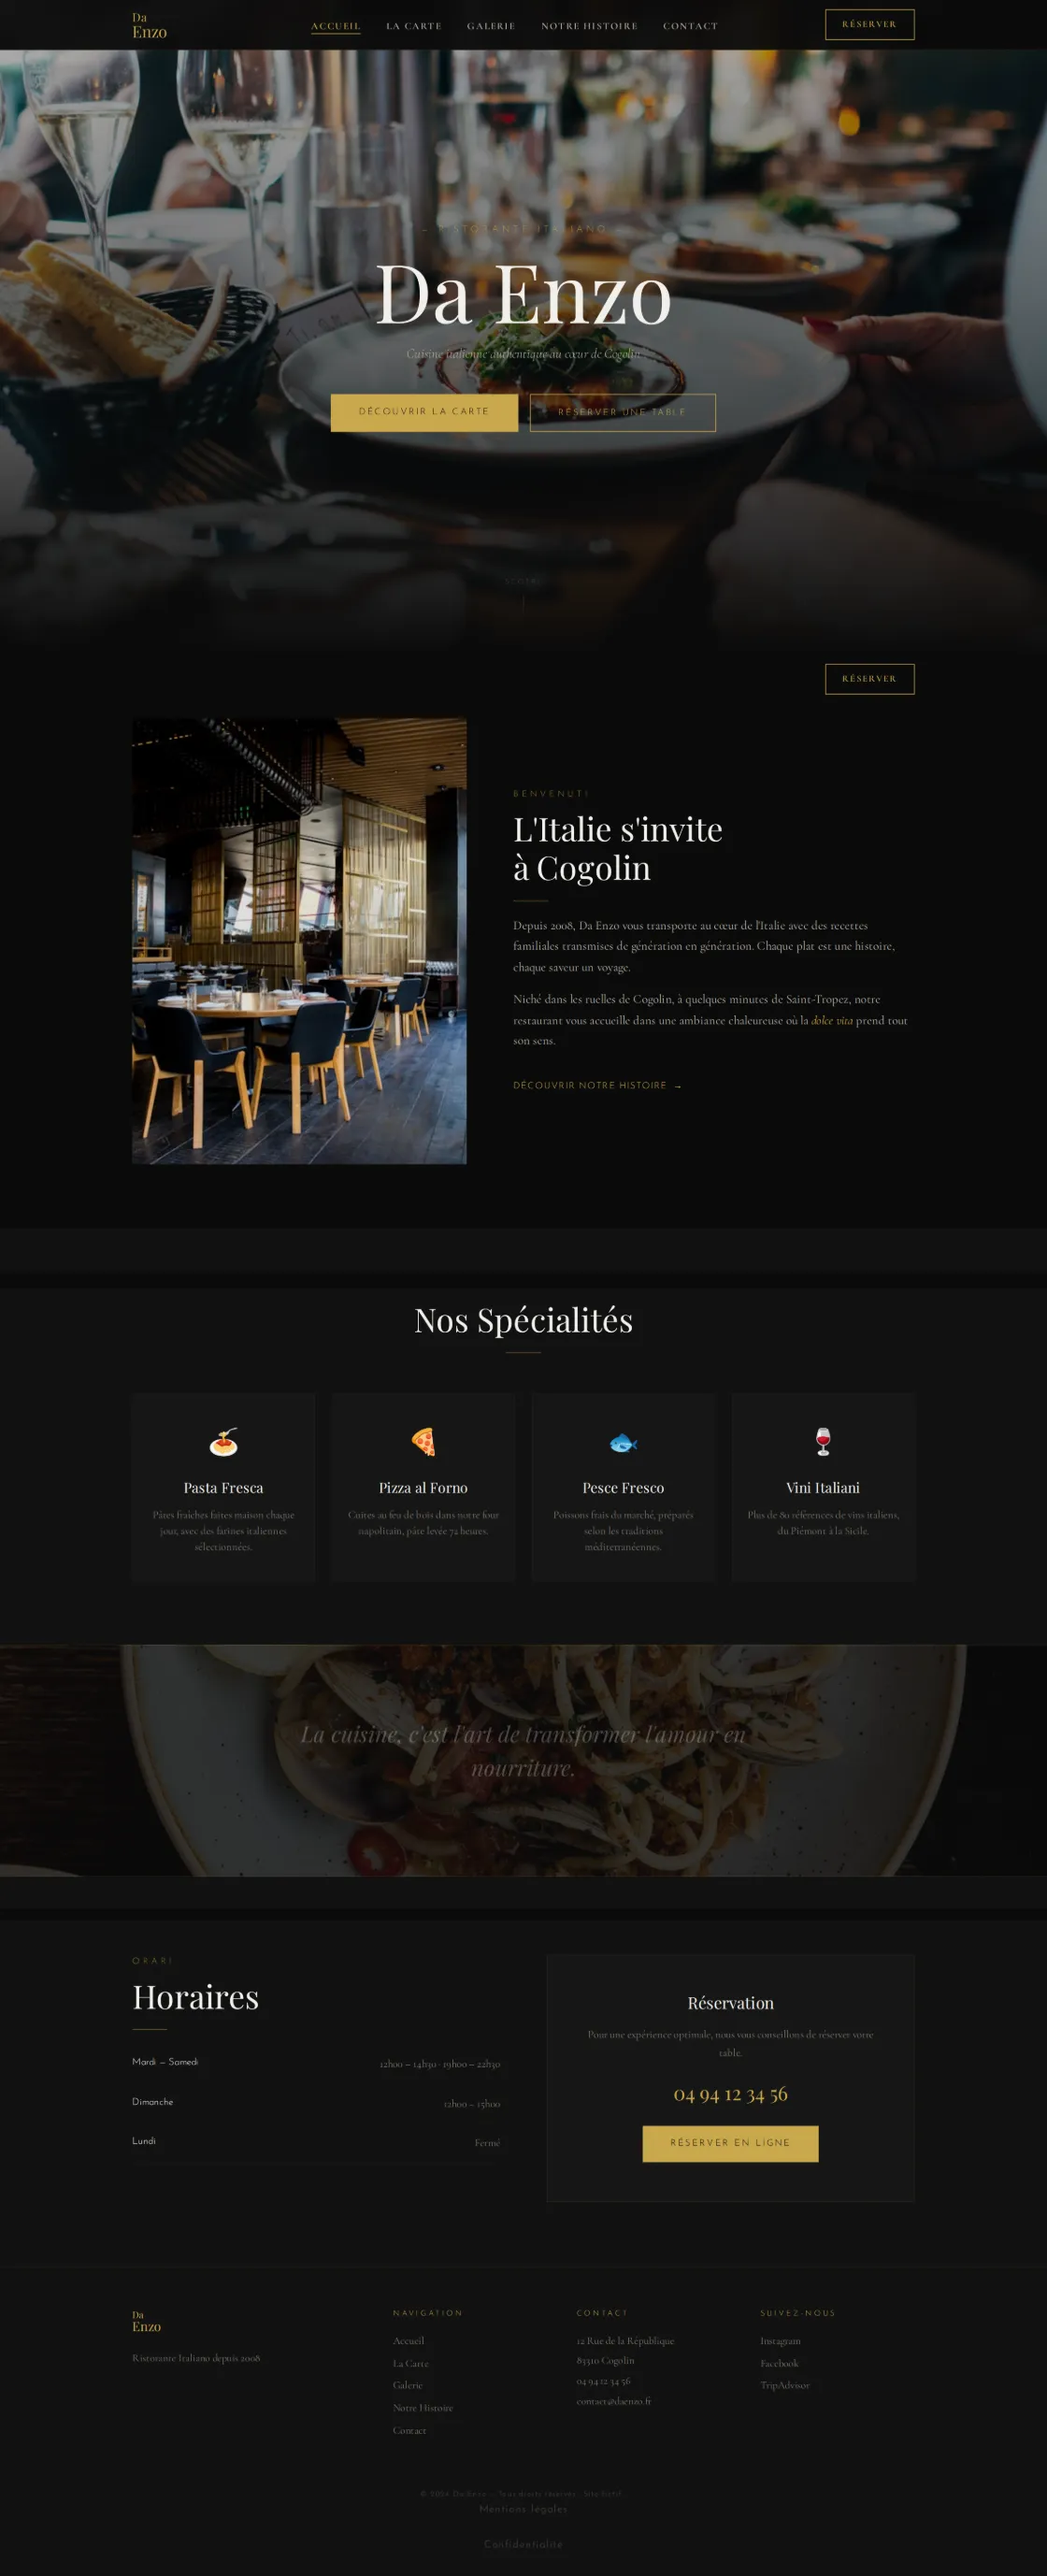
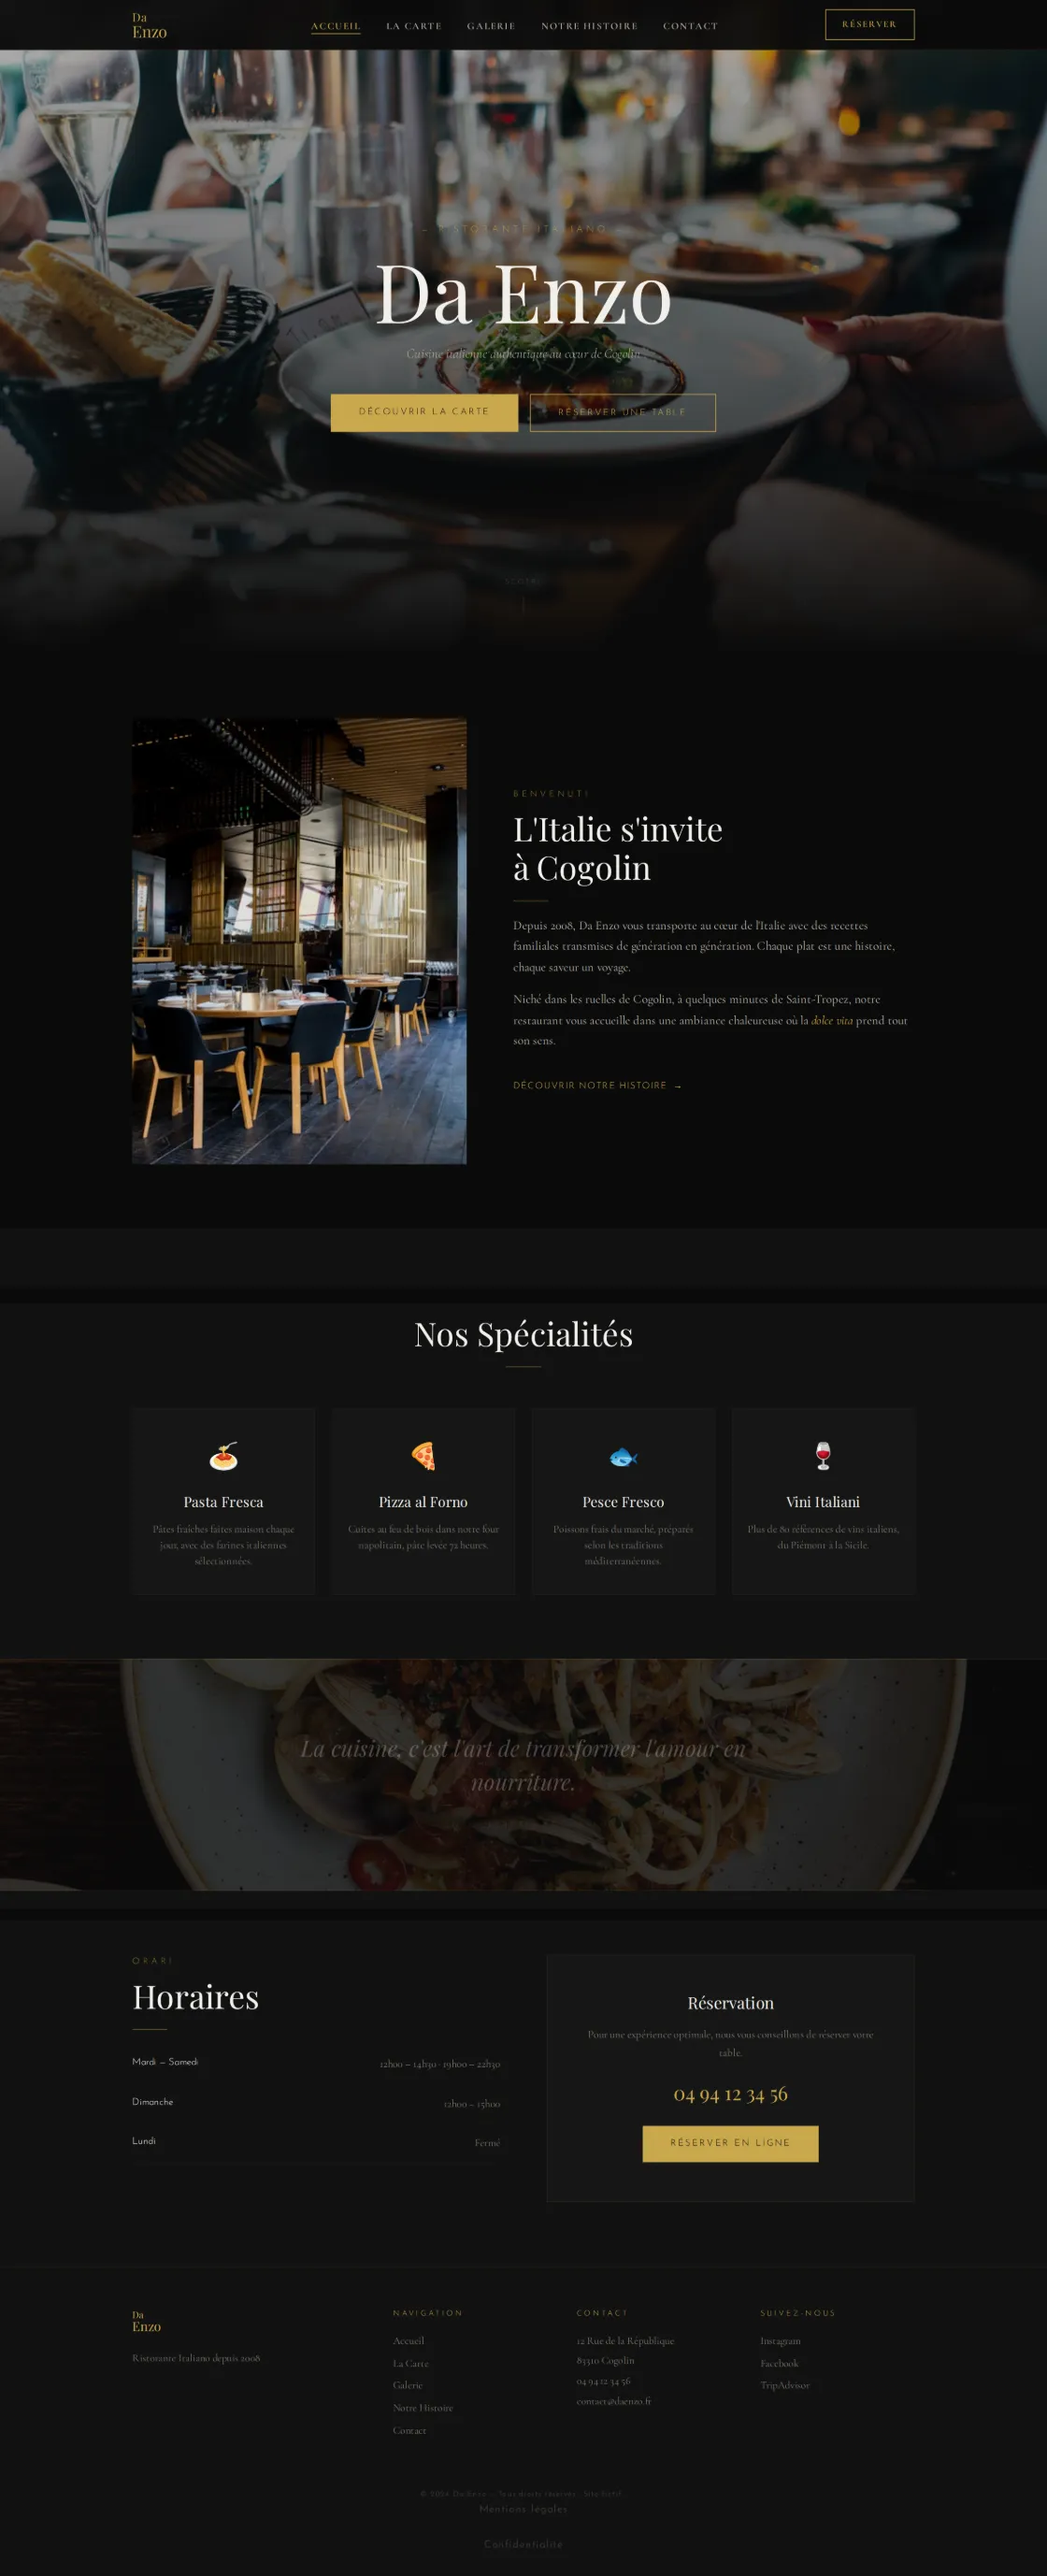
Réalisations : chaque planche montre le premier écran du site
MDZ Piscine ne démarrait pas en haut de sa page, pour deux raisons qui se
cumulaient.

La barre de navigation reparaissait en plein milieu de l'aperçu. Elle est
fixe, donc masquée après la première vignette pour ne pas se répéter — mais
le masquage ne tenait pas : le site anime lui-même sa barre au scroll et
réécrivait le style juste après nous, et sa visibilité était transitionnée
sur 400 ms, si bien qu'elle était encore là au moment de la photo. Le
masquage passe maintenant par une règle !important sans transition, en
display:none plutôt qu'en visibility:hidden — sinon le bouton « Nous
contacter » se rendait visible pour lui-même à travers son parent masqué.
Une attente explicite vérifie qu'il ne reste plus rien de fixe avant de
déclencher la photo. Le curseur maison de MDZ, deux pastilles qui suivent
la souris, est retiré partout : sur une capture il ne suit rien.

Le cadre de la planche prend les proportions exactes d'un écran de
1440 × 900, celui sur lequel les captures sont prises. À 1020 px de haut il
en montrait 120 de plus : le hero de MDZ fait pile 900, et la section
suivante dépassait — l'aperçu semblait déjà défilé. Les quatre planches
montrent désormais le premier écran de leur site, ni plus ni moins.

Claude-Session: https://claude.ai/code/session_014KHsntXEQUecREFXuuAoQ5

diff --git a/index.html b/index.html
@@ -1047,8 +1047,13 @@ body{ background:var(--void); color:var(--pure); font-family:var(--body);
 /* ── La planche d'aperçu ── */
 .works__plate{ min-width:0; }
 .plate{ position:relative; width:min(100%,560px); margin-inline:auto; perspective:1500px; }
+/* Le cadre a exactement les proportions d'un écran de 1440 × 900 — celui sur
+   lequel les captures sont prises. Chaque planche montre donc le premier
+   écran du site, ni plus ni moins : à 1020 px de haut, MDZ Piscine, dont le
+   hero fait pile 900, laissait dépasser le début de la section suivante et
+   semblait déjà défilé. */
 .plate__win{
-  position:relative; width:100%; aspect-ratio:1440/1020;
+  position:relative; width:100%; aspect-ratio:1440/900;
   overflow:hidden; border-radius:5px; background:#0B0C0E;
   transform:rotateY(-13deg) rotateX(2deg); transform-origin:58% 50%;
   box-shadow:-42px 46px 120px rgba(0,0,0,.78), 0 0 0 1px rgba(255,255,255,.12);
